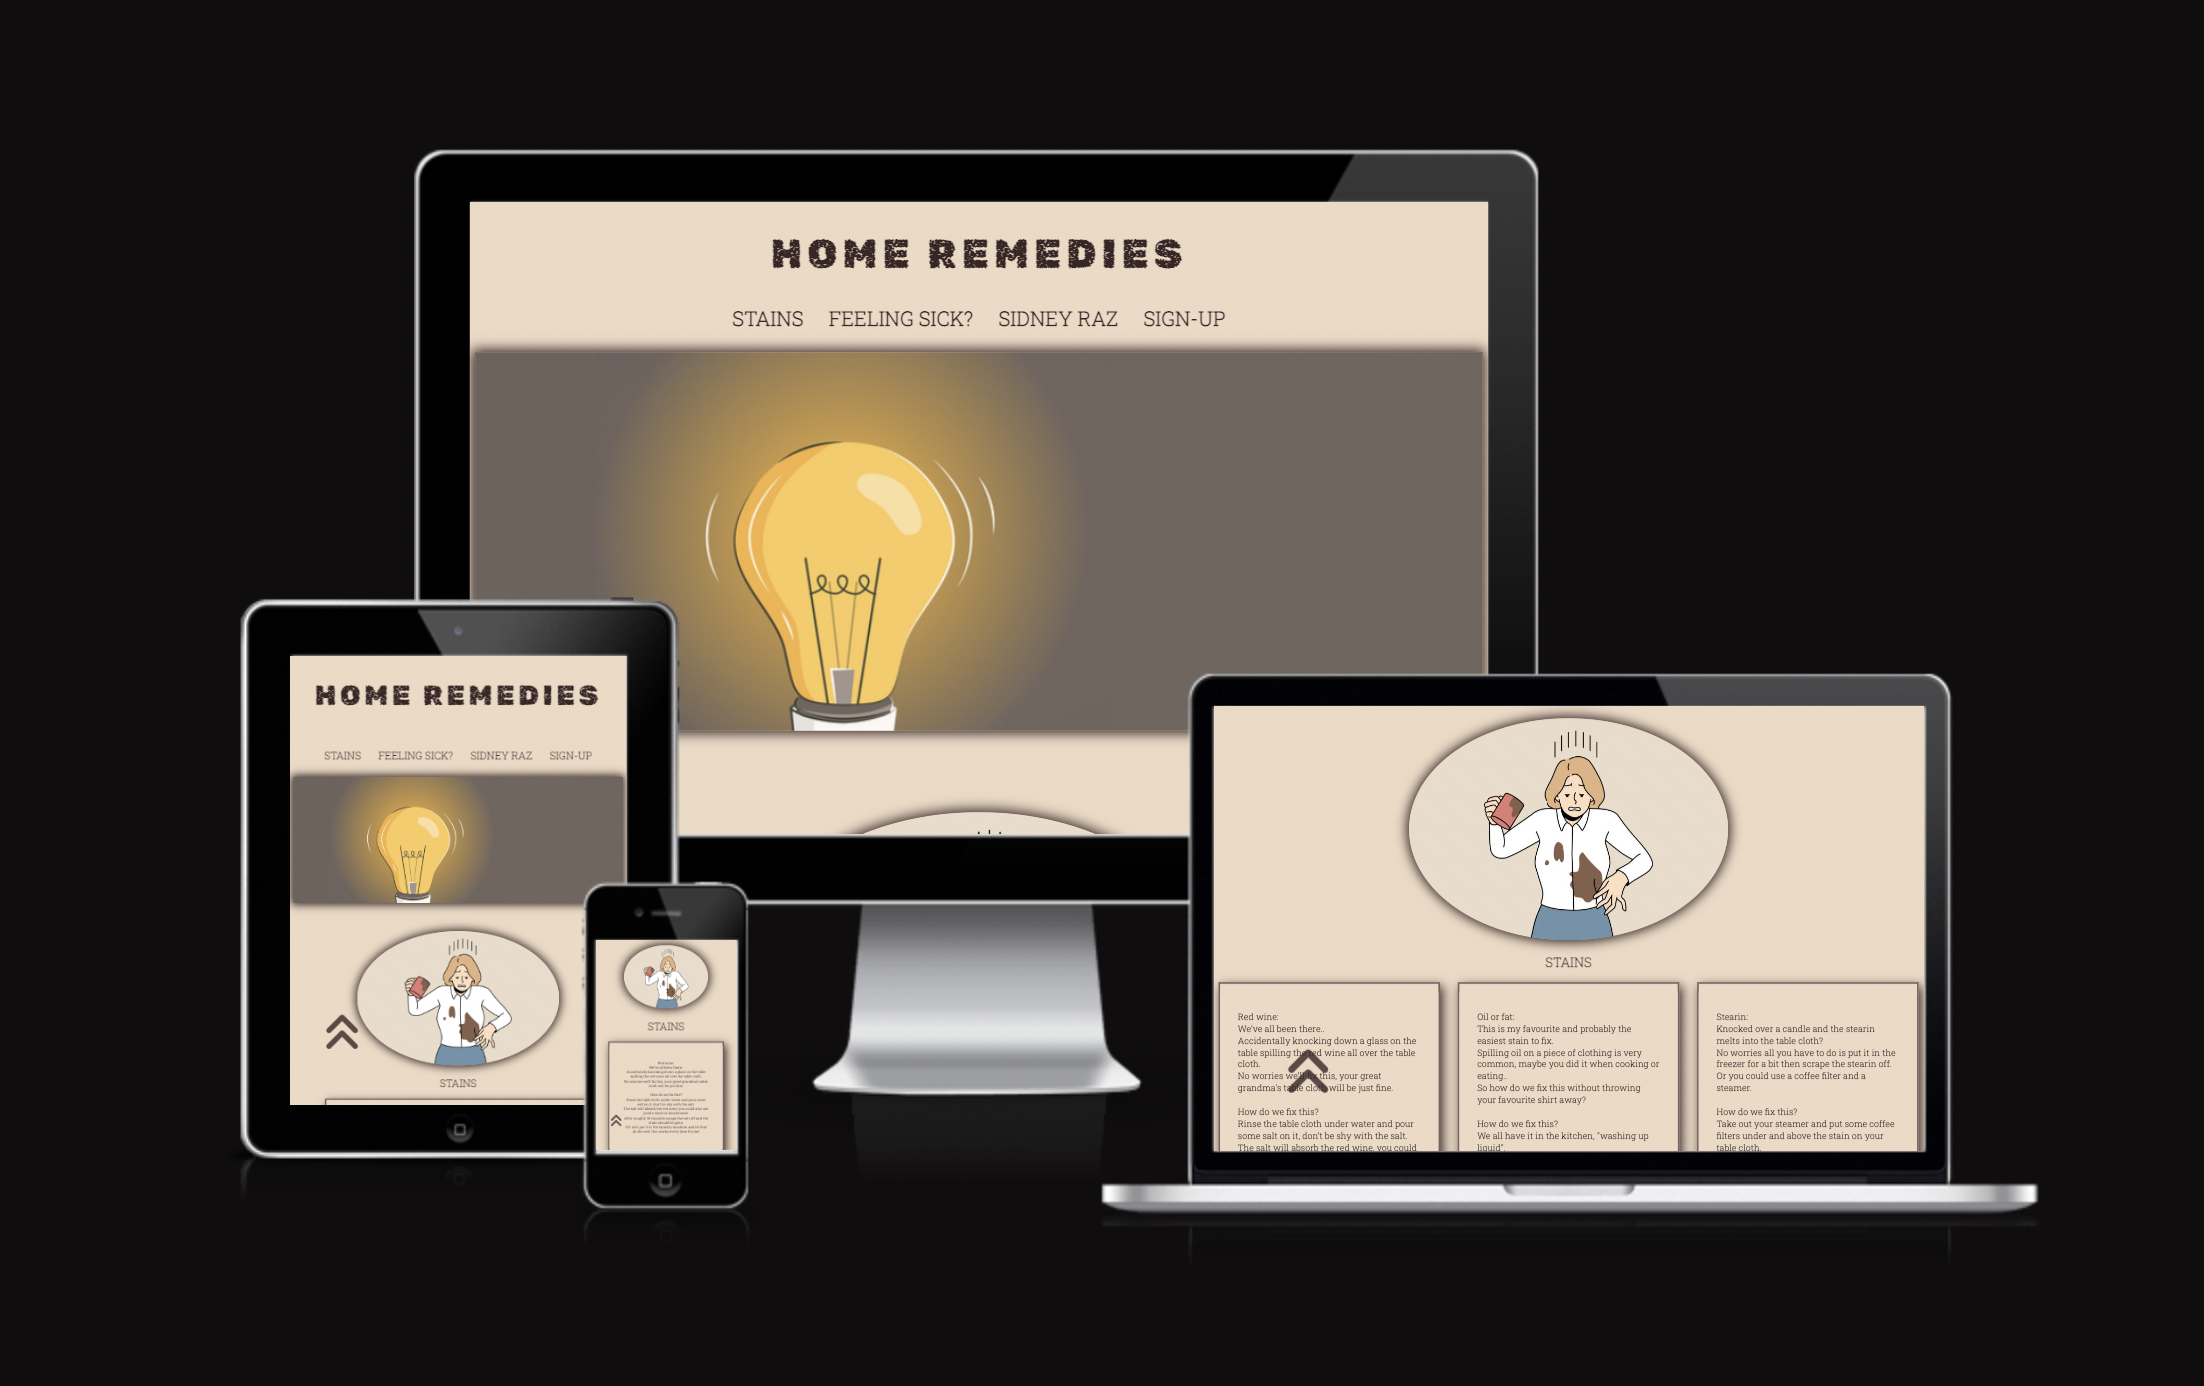
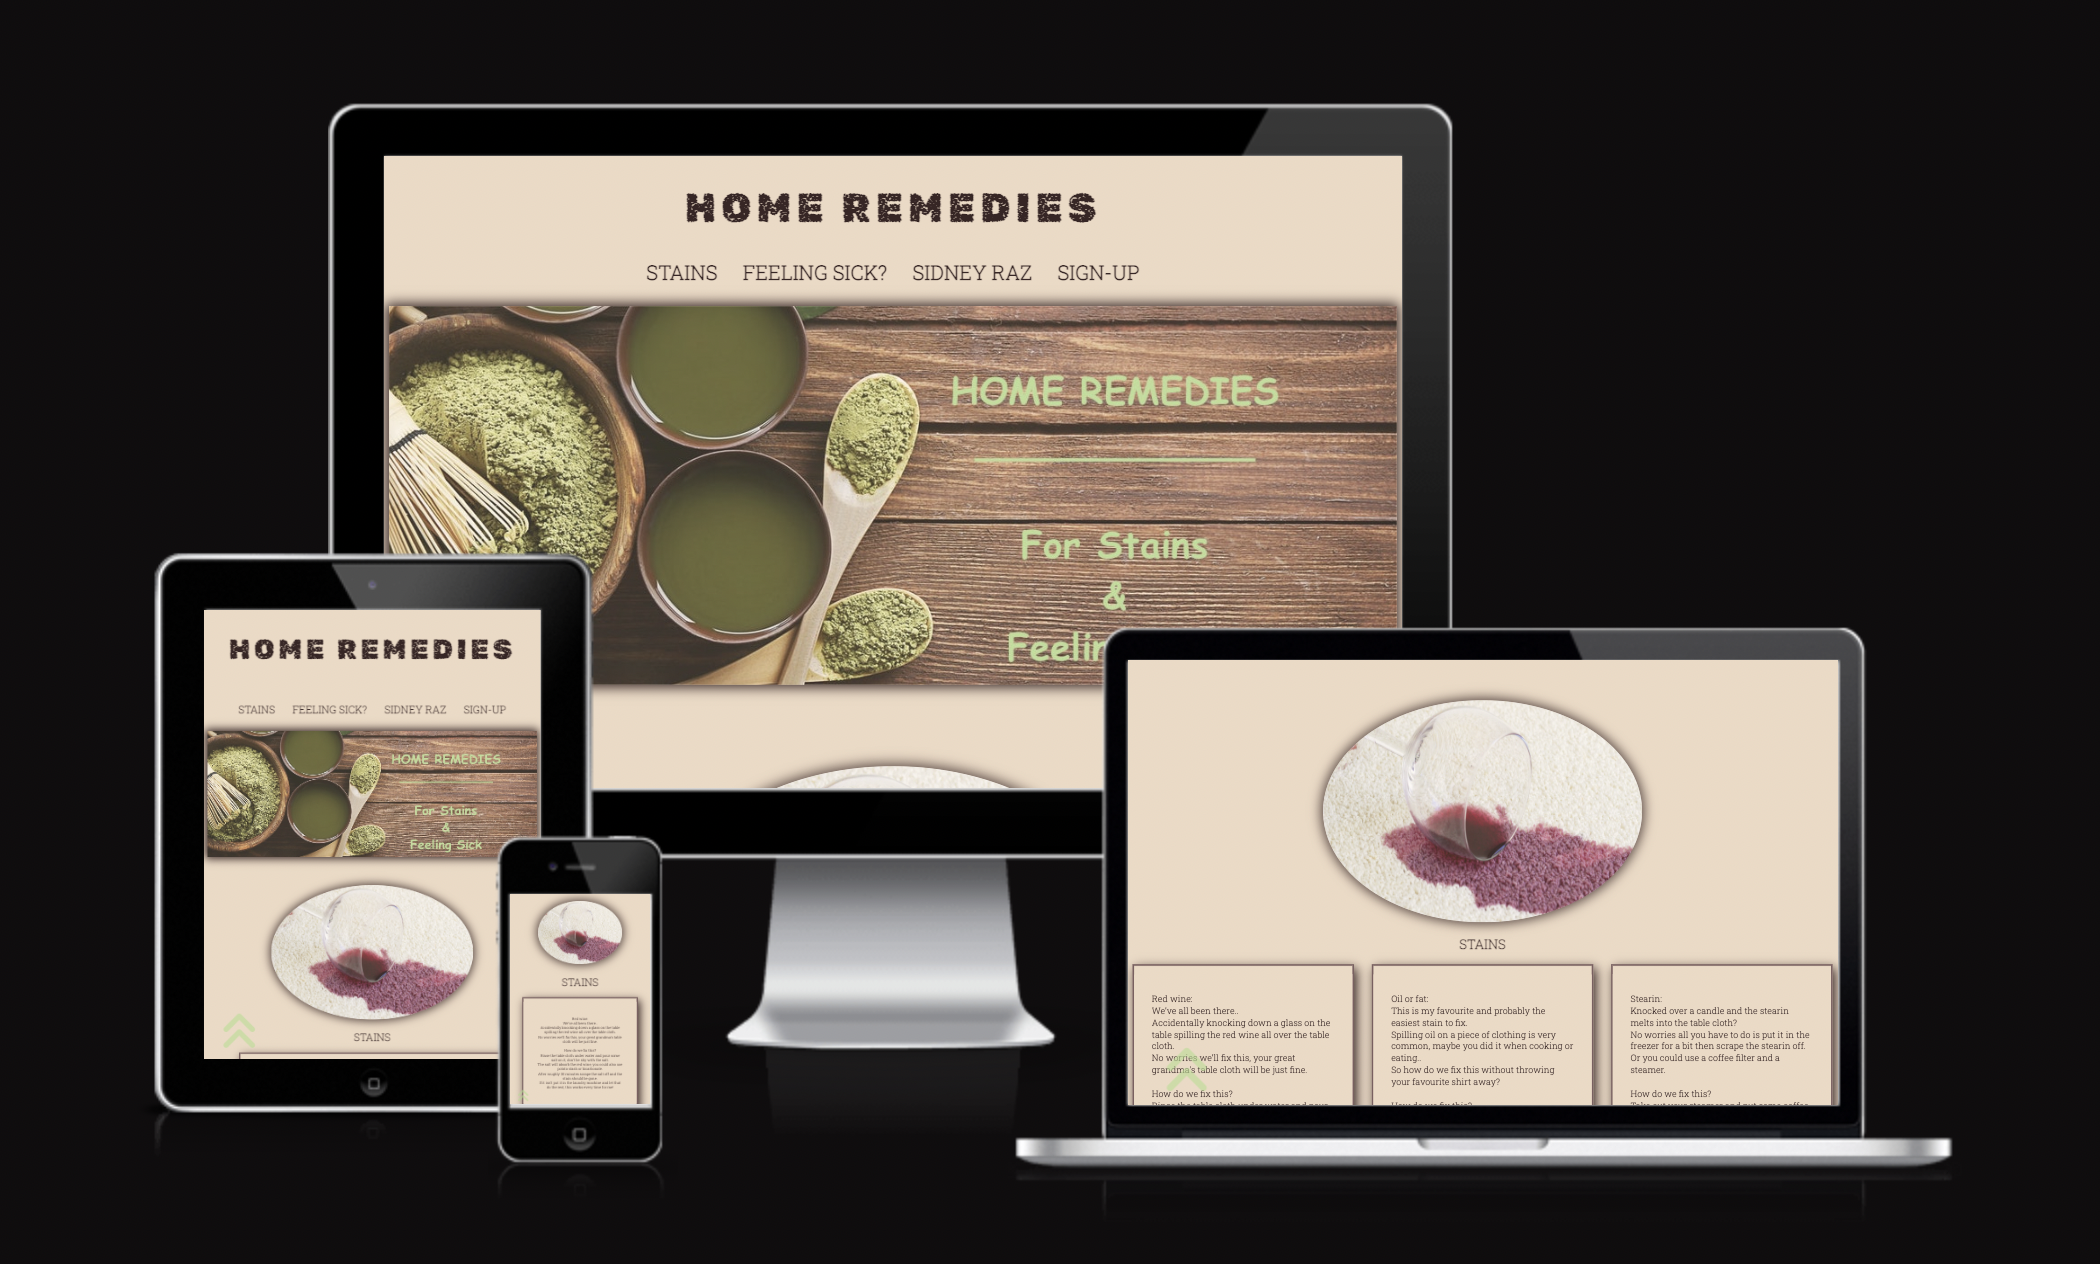
Fe

diff --git a/index.html b/index.html
@@ -189,9 +189,9 @@
         <section id="sign-up" class="hacks-container">
             <div>
                 <h2>Sign-up here!</h2>
-                <p>Did life-hacks help you with your problems and you want more tips? <br>
-                    Maybe you have a good life-hack of your own that you would like to share? <br>
-                    Please sign-up down below and leave a message if you have any tips for us.
+                <p>Did Home Remedies help you with your problems and you want more tips? <br>
+                    Maybe you have a good life-hack or remedy of your own that you would like to share? <br>
+                    Please sign-up down below for newsletters and leave an optional message if you have any tips for us.
                 </p>
             </div>
             <div>

diff --git a/README.md b/README.md
@@ -13,7 +13,6 @@ Or you could leave a message if you have a good one yourself,
 it's up to you if you want to leave a message or not.
 ![screenshot](images.readme/AmIResp.png)
 
-
 ## Index - table of contents
 
 * [Description](#description)
@@ -30,7 +29,7 @@ it's up to you if you want to leave a message or not.
 ## User Experience
 
 * A.First Time Visitor Goals
-  * a. As a first time visitor, I want to easily understand the websites purpose and find out more about it.
+  * a. As a first time visitor, I want to easily understand the websites purpose and read more about it.
   * b. As a first time visitor, I want to navigate fast and easily on the site to find what I´m looking for.
   * c. As a first time visitor, I want to understand the purpose of the websites conent.
   
@@ -48,12 +47,14 @@ it's up to you if you want to leave a message or not.
    ### F1, Navigationbar
       The navigation bar has a simple and easy navigation to it on all devices.
       It´s easy to find the different locators like "Stains", "Feeling sick?" "Sidney Rez" and "Sign-Up".
-      It lights up when the user hovers over the text, making it easier for them to see what part they might klick on.
-  
-  ### F2, Main image
-      The main image is used to point out what vibe the site is giving out.
-      A lightbulp with a bright light giving the impression that this website has a "Idea" or a "solution" to something.
+      It lights up when the user hovers over the text, creating a animating effect and improving the page.
+* ![screenshot](./images.readme/navbar.png)
+
+  ### F2, Hero image
+      The hero image is used to point out what vibe the site is giving out.
+      A little mixture of mixing matcha tea, creating a feeling of home remedies.
       Animating zoom effect going from big to smal, creating a nice enviroment on the website.
+* ![screenshot](../project-1.resub/assets/images/hero.jpg)
 
   ### F3, Iframe video
       The main purpose of the iframe video is to show the visitor what they can discover themselves if they think outside the box. Do they have a life hack or home remedy, they might get inspired and leave a comment to the website to create more content.
@@ -64,25 +65,26 @@ it's up to you if you want to leave a message or not.
 
   ### F5, Footer
       The footer contains what is needed for the visitor to take the next step.
-      Discover more throughout Instagram, Facebook or Twitter.
+      Discover more of throughout Instagram, Facebook or Twitter.
+* ![screenshot](images.readme/footer.png)
 
 
 ## Design
 
 ### Imagery
     I wanted the whole page to have one common thread.
-    When menu is hovered over, color yellow will appear to be the same as the hero image.
-    The brown in the main image goes well togheter with the other colors on the page.
+    When menu is hovered over, color green will appear to be the same as the hero image.
+    The brown in hero image goes well togheter with the other colors on the page.
 
 
 ### Sections
-    I wanted the most important content to be closer to the top of the page.
+    I wanted the most important content to be closer to the top of the page, creating a bigger chans to catch user's attention.
     By dividing up paragraphs in boxes using border color and box shadowing it's easier to read.
     
       
 ### Color Scheme
     Using 3 different shades of brown to have a red-thread in the website.
-    Only yellow is used in hero image and the hover color for the menu.
+    Only green is used in hero image, hover color for the menu and scroll up button.
 * ![screenshot](images.readme/colorscheme.png)
     
 
@@ -99,13 +101,18 @@ it's up to you if you want to leave a message or not.
 ## Technological used
   
 ### Language used,
-HTML5 
-CSS3
+**HTML5** 
+
+**CSS3**
       
 ### Programs and Libraries used,
 [Google fonts](https://fonts.google.com/about) used to import "Roboto Slab", serif" and "Rubik Microbe"
 
 [Font Awesome](https://fontawesome.com/) used to get icons for the footer links and up-button.
+
+[Coolor Scheme](https://coolors.co/) Used to showcase colors used for this website.
+
+[Am I Responsive](https://ui.dev/amiresponsive) used to check responsivness.
 
 [Github](https://github.com/)/[Gitpod](https://www.gitpod.io/) used to save code, commits and pushes.
 
@@ -140,11 +147,6 @@ CSS3
 All content in the "Stains" and "Feeling sick?" sections in this site were written by me with my own experiences.
 
 ### Media
-      
-Icones comes from https://fontawesome.com/
-
-font type comes from https://fonts.google.com/knowledge
-
 Used as an inspiration for creating a button to take user to the top of the page [Debbie Herridge](https://debbie-herridge.github.io/mindfull-meditation/)
       
 Needed a reminder of how buttons work, that I found [here](https://www.w3schools.com/tags/tag_button.asp)
@@ -154,7 +156,7 @@ Created box effect on paragraphs, used this [video](https://www.youtube.com/watc
 Created a text area for visitor to leave a message, used this [video](https://www.youtube.com/watch?v=0X0kovjzLrw&t=15s)
 
 Images used for this website in following order:
-1. [Hero-image](changing)
-2. [Stains-image](changing)
-3. [Feeling-sick image](changing)
+1. ["Hero" image](https://keybroker.se/kundcase/kundaktivering-med-omnichannel)
+2. ["Stains" image](https://www.chemdryofomaha.com/specialty-stain-removal/)
+3. ["Feeling sick" image](https://food.ndtv.com/food-drinks/home-remedies-ginger-honey-pepper-lemon-water-may-help-ease-cold-and-cough-2243952)
 4. [Youtube video](https://www.youtube.com/watch?v=MQcQGAymDJM&t=1s)
